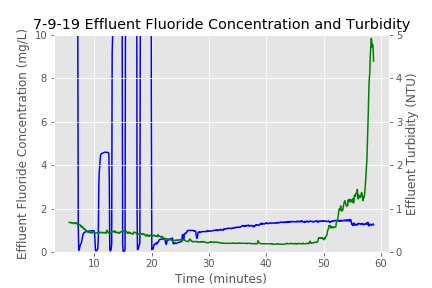
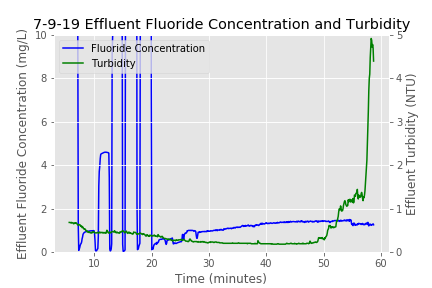
done!

Changed region(s): [[0.1505, 0.125, 0.4815, 0.25]]

diff --git a/Summer 2019/Data and Graphs/7-10-19/7-10-19 Experiment.md b/Summer 2019/Data and Graphs/7-10-19/7-10-19 Experiment.md
@@ -1,41 +1,4 @@
 ```python
-import matplotlib.pyplot as plt
-import aguaclara.research.procoda_parser as pp
-import scipy.stats as stats
-import pandas as pd
-import numpy as np
-import scipy as sp
-import scipy.optimize as opt
-from aguaclara.play import *
-
-july10exp = "https://raw.githubusercontent.com/AguaClara/Fluoride-Auto/master/Summer%202019/Data%20and%20Graphs/7-10-19/datalog%207-10-2019.xls"
-data_raw = pd.read_csv(july10exp, delimiter="\t")
-data = pp.remove_notes(data_raw)
-time = pd.to_numeric(data.iloc[:,4]/60)
-fluoride = pd.to_numeric(data.iloc[:,2])
-turbidity = pd.to_numeric(data.iloc[:,3])
-
-# ax1 is the axis handle for the first y-axis
-fig, ax1 = plt.subplots()
-ax1.set_xlabel("Time (minutes)")
-ax1.set_ylabel("Effluent Fluoride Concentration (mg/L)")
-ax1.set_ylim(0,10)
-# line1 is the line handle for the effluent_turbidity graph
-fluoride_plot, = ax1.plot(time, fluoride, color="blue")
-
-# ax2 is an axis handle for the second y-axis, with the same x-axis as ax1
-ax2 = ax1.twinx()
-ax2.set_ylabel("Effluent Turbidity (NTU)")
-ax2.set_ylim(0,5)
-# line1 is the line handle for the effluent_turbidity graph
-turbidity_plot, = ax2.plot(time, turbidity, color="green")
-plt.title("7-9-19 Effluent Fluoride Concentration and Turbidity")
-
-plt.savefig("7-10-19 Effluent Fluoride Concentration and Turbidity")
-
-
-
-
 import aguaclara.research.procoda_parser as pp
 import scipy.stats as stats
 import pandas as pd
@@ -66,9 +29,8 @@ ax2.set_ylabel("Effluent Turbidity (NTU)")
 ax2.set_ylim(0,5)
 # line1 is the line handle for the effluent_turbidity graph
 turbidity_plot, = ax2.plot(time, turbidity, color="green")
-plt.title("7-9-19 Effluent Fluoride Concentration and Turbidity")
+plt.title("7-10-19 Effluent Fluoride Concentration and Turbidity")
+plt.legend((fluoride_plot, turbidity_plot),("Fluoride Concentration","Turbidity"))
 
-plt.savefig("7-9-19 Effluent Fluoride Concentration and Turbidity")
-
-
+plt.savefig("7-10-19 Effluent Fluoride Concentration and Turbidity")
 ```

diff --git a/Summer 2019/Data and Graphs/7-12-19/7-12-19 Experiment.md b/Summer 2019/Data and Graphs/7-12-19/7-12-19 Experiment.md
@@ -7,8 +7,8 @@ import scipy as sp
 import scipy.optimize as opt
 from aguaclara.play import *
 
-july11exp = "https://raw.githubusercontent.com/AguaClara/Fluoride-Auto/master/Summer%202019/Data%20and%20Graphs/7-11-19/datalog%207-11-2019.xls"
-data_raw = pd.read_csv(july11exp, delimiter="\t")
+july12exp = "https://raw.githubusercontent.com/AguaClara/Fluoride-Auto/master/Summer%202019/Data%20and%20Graphs/7-12-19/datalog%207-12-2019.xls"
+data_raw = pd.read_csv(july12exp, delimiter="\t")
 data = pp.remove_notes(data_raw)
 time = pd.to_numeric(data.iloc[:,5])/60
 fluoride = data.iloc[:,2]
@@ -28,8 +28,9 @@ ax2.set_ylabel("Effluent Turbidity (NTU)")
 ax2.set_ylim(0,1)
 # line1 is the line handle for the effluent_turbidity graph
 turbidity_plot, = ax2.plot(time, turbidity, color="green")
-plt.title("7-11-19 Effluent Fluoride Concentration and Turbidity")
+plt.title("7-12-19 Effluent Fluoride Concentration and Turbidity")
 plt.legend((fluoride_plot, turbidity_plot),("Fluoride Concentration","Turbidity"))
 
-plt.savefig("7-11-19 Effluent Fluoride Concentration and Turbidity")
+plt.savefig("7-12-19 Effluent Fluoride Concentration and Turbidity")
+
 ```

diff --git a/Summer 2019/Data and Graphs/7-9-19/7-9-19 Experiment.md b/Summer 2019/Data and Graphs/7-9-19/7-9-19 Experiment.md
@@ -30,5 +30,6 @@ ax2.set_ylim(0,5)
 # line1 is the line handle for the effluent_turbidity graph
 turbidity_plot, = ax2.plot(time, turbidity, color="green")
 plt.title("7-9-19 Effluent Fluoride Concentration and Turbidity")
+plt.legend((fluoride_plot, turbidity_plot),("Fluoride Concentration","Turbidity"))
 
 plt.savefig("7-9-19 Effluent Fluoride Concentration and Turbidity")

diff --git a/Summer 2019/New Pump Graph.md b/Summer 2019/New Pump Graph.md
@@ -18,7 +18,6 @@ ax1.set_xlabel("RPM")
 ax1.set_ylabel("Expected Flow Rate (mL/s)")
 # line1 is the line handle for the effluent_turbidity graph
 expected_plot, = ax1.plot(rpm, expected_rate, color="blue")
-linreg
 
 ax2 = ax1.twinx()
 ax2.set_ylabel("Actual Flow Rate (mL/s)")

diff --git a/Summer 2019/Data and Graphs/7-11-19/Floc Blanket 711 Graph.md b/Summer 2019/Data and Graphs/7-11-19/Floc Blanket 711 Graph.md
@@ -19,6 +19,6 @@ plt.ylim(0,65)
 plt.title("Height of the Floc Blanket over Time")
 plt.xlabel("Time (sec)")
 plt.ylabel("Height from Bottom of Sedimentation Tube (cm)")
-plt.savefig("Floc Blanket Graph 7-10")
+plt.savefig("Floc Blanket Graph 7-11")
 
 ```

diff --git a/Summer 2019/Data and Graphs/7-12-19/Floc Blanket 712 Graph.md b/Summer 2019/Data and Graphs/7-12-19/Floc Blanket 712 Graph.md
@@ -19,6 +19,6 @@ plt.ylim(0,65)
 plt.title("Height of the Floc Blanket over Time")
 plt.xlabel("Time (sec)")
 plt.ylabel("Height from Bottom of Sedimentation Tube (cm)")
-plt.savefig("Floc Blanket Graph 7-10")
+plt.savefig("Floc Blanket Graph 7-12")
 
 ```
